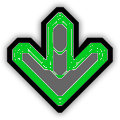
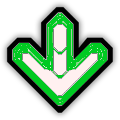
final

Changed region(s): [[0.175, 0.2, 0.825, 0.8]]

diff --git a/js/index.js b/js/index.js
@@ -20,24 +20,27 @@ const arrowLeft = new Image();
 arrowLeft.src = './assets/staticLeft.png';
 const greenLeft = new Image();
 greenLeft.src = './assets/greenLeft.png';
+const purpleLeft = new Image();
+purpleLeft.src = './assets/purpleLeft.png';
 const arrowUp = new Image();
 arrowUp.src = './assets/staticUp.png';
 const greenUp = new Image();
 greenUp.src = './assets/greenUp.png';
+const purpleUp = new Image();
+purpleUp.src = './assets/purpleUp.png';
 const arrowDown = new Image();
 arrowDown.src = './assets/staticDown.png';
 const greenDown = new Image();
 greenDown.src = './assets/greenDown.png';
+const purpleDown = new Image();
+purpleDown.src = './assets/purpleDown.png';
 const arrowRight = new Image();
 arrowRight.src = './assets/staticRight.png';
 const greenRight = new Image();
 greenRight.src = './assets/greenRight.png';
-/*
-const arrowLeftDynamic = new Image()
-arrowLeftDynamic.src = './assets/leftArrowDynamic.png'
-const arrowUpDynamic = new Image();
-arrowUpDynamic.src = "./assets/arrowBlue.gif";
-*/
+const purpleRight = new Image();
+purpleRight.src = './assets/purpleRight.png';
+
 const arrowsArray = [];
 const combosArray = [];
 
@@ -49,21 +52,46 @@ const rightArrowPos = 5.25 * (canvas.width / 8);
 const arrowWidth = 75;
 const arrowHeight = 75;
 const inputPadding = 15;
-const maxArrows = 12;
+const maxArrows = 4;
 
-function handleKeyPress(e) {
+function handleKeyDown(e) {
+    if(["ArrowUp","ArrowDown","ArrowLeft","ArrowRight"].indexOf(e.code) > -1) {
+        e.preventDefault();
+    }
     switch (e.keyCode) {
         case 37:
-            leftArrowIsPressed = !leftArrowIsPressed;
+            decrementScore()
+            leftArrowIsPressed = true;
             break;
         case 38:
-            upArrowIsPressed = !upArrowIsPressed;
+            decrementScore()
+            upArrowIsPressed = true;
             break;
         case 39:
-            rightArrowIsPressed = !rightArrowIsPressed;
+            decrementScore()
+            rightArrowIsPressed = true;
             break;
         case 40:
-            downArrowIsPressed = !downArrowIsPressed;
+            decrementScore()
+            downArrowIsPressed = true;
+            break;
+    }
+}
+
+
+function handleKeyUp(e) {
+    switch (e.keyCode) {
+        case 37:
+            leftArrowIsPressed = false;
+            break;
+        case 38:
+            upArrowIsPressed = false;
+            break;
+        case 39:
+            rightArrowIsPressed = false;
+            break;
+        case 40:
+            downArrowIsPressed = false;
             break;
     }
 }
@@ -74,22 +102,22 @@ class ArrowSprite {
         switch (direction) {
             case 'left':
                 this.x = leftArrowPos;
-                this.img = arrowLeft;
+                this.img = purpleLeft;
                 this.secondaryImg = greenLeft;
                 break;
             case 'up':
                 this.x = upArrowPos;
-                this.img = arrowUp;
+                this.img = purpleUp;
                 this.secondaryImg = greenUp;
                 break;
             case 'down':
                 this.x = downArrowPos;
-                this.img = arrowDown;
+                this.img = purpleDown;
                 this.secondaryImg = greenDown;
                 break;
             case 'right':
                 this.x = rightArrowPos;
-                this.img = arrowRight;
+                this.img = purpleRight;
                 this.secondaryImg = greenRight;
                 break;
         }
@@ -100,7 +128,11 @@ class ArrowSprite {
     }
 
     updatePosition() {
-        this.y += 1.5;
+        if(this.validated){
+            this.y += .8;
+        } else {
+            this.y += 1.5;
+        }
     }
 
     draw() {
@@ -108,28 +140,27 @@ class ArrowSprite {
     }
 }
 
-function createArrow() {
+function createArrowSprite() {
     if(!gameOn){
         return;
     }
     let directions = ['left', 'up', 'down', 'right'];
     let arrowDirection = directions[Math.floor(Math.random() * directions.length)]
     let randomSeed = Math.floor(Math.random() * 2.2)
-    arrowsArray.push(new ArrowSprite(arrowDirection))
-    if(arrowsArray.length > maxArrows){
-        randomSeed *= 4;
+    if(arrowsArray.length < maxArrows){
+        arrowsArray.push(new ArrowSprite(arrowDirection))
     }
     setTimeout(() => {
-        createArrow()
+        createArrowSprite()
     }, randomSeed*1000)       
     
 }  
 
-class ComboSprite {
-    constructor(combo, xPos){
-        this.combo = combo;
+class ScoreSprite {
+    constructor(score, xPos){
+        this.score = score;
         this.x=  xPos + arrowWidth / 2;
-        this.y = canvas.height - arrowHeight;
+        this.y = canvas.height - arrowHeight * 1.5;
     }
 
     updatePosition(){
@@ -139,16 +170,25 @@ class ComboSprite {
     draw(){
         ctx.fillStyle = '#eef577';
         ctx.font = '18px sans-serif';
-        ctx.fillText(`${this.combo}X`, this.x, this.y);
+        ctx.fillText(`${this.score}`, this.x, this.y);
     }   
 }
 
-function createCombo(combo, xPos){
-    combosArray.push(new ComboSprite(combo, xPos));
+function createScoreSprite(score, xPos){
+    combosArray.push(new ScoreSprite(score, xPos));
 }
 
-function validateArrow(arrow) {
-    switch (arrow.direction) {
+function decrementScore(arrow){
+    /*if(arrow){
+        createScoreSprite(-100, arrow.x)
+    }*/
+    if(score > 0){
+        score -= 100;
+    }
+}
+
+function validateArrow(direction) {
+    switch (direction) {
         case 'left':
             return leftArrowIsPressed;
         case 'up':
@@ -159,10 +199,6 @@ function validateArrow(arrow) {
             return rightArrowIsPressed;
     }
 }
-/*
-function updateScore(){
-    document.getElementById('score').innerHTML= score;
-}*/
 
 function animationLoop() {
     // clear rect
@@ -170,37 +206,34 @@ function animationLoop() {
     // draw combo and score 
     ctx.fillStyle = '#eef577';
     ctx.font = '18px sans-serif';
-    ctx.fillText(`Combo: ${scoreMultiplier}X  Score: ${score}`, canvas.width/3.1, 30);
+    ctx.fillText(`Combo: ${scoreMultiplier}X  Score: ${score}`, canvas.width/3.2, 30);
     // draw placeholder arrows
-    ctx.drawImage(arrowLeft, leftArrowPos, canvas.height - arrowHeight, leftArrowIsPressed ? 4 + arrowWidth : arrowWidth, leftArrowIsPressed ? 4 + arrowHeight : arrowHeight)
-    ctx.drawImage(arrowUp, upArrowPos, canvas.height - arrowHeight, upArrowIsPressed ? 4 + arrowWidth : arrowWidth, upArrowIsPressed ? 4 + arrowHeight : arrowHeight)
-    ctx.drawImage(arrowDown, downArrowPos, canvas.height - arrowHeight, downArrowIsPressed ? 4 + arrowWidth : arrowWidth, downArrowIsPressed ? 4 + arrowHeight : arrowHeight)
-    ctx.drawImage(arrowRight, rightArrowPos, canvas.height - arrowHeight, rightArrowIsPressed ? 4 + arrowWidth : arrowWidth, rightArrowIsPressed ? 4 + arrowHeight : arrowHeight)
+    ctx.drawImage(arrowLeft, leftArrowPos, canvas.height - arrowHeight * 1.5, leftArrowIsPressed ? 4 + arrowWidth : arrowWidth, leftArrowIsPressed ? 4 + arrowHeight : arrowHeight)
+    ctx.drawImage(arrowUp, upArrowPos, canvas.height - arrowHeight * 1.5, upArrowIsPressed ? 4 + arrowWidth : arrowWidth, upArrowIsPressed ? 4 + arrowHeight : arrowHeight)
+    ctx.drawImage(arrowDown, downArrowPos, canvas.height - arrowHeight * 1.5, downArrowIsPressed ? 4 + arrowWidth : arrowWidth, downArrowIsPressed ? 4 + arrowHeight : arrowHeight)
+    ctx.drawImage(arrowRight, rightArrowPos, canvas.height - arrowHeight * 1.5, rightArrowIsPressed ? 4 + arrowWidth : arrowWidth, rightArrowIsPressed ? 4 + arrowHeight : arrowHeight)
     // update and draw moving arrows
     arrowsArray.forEach((arrow, i, arr) => {
         arrow.updatePosition();
         arrow.draw();
-        if (arrow.y > canvas.height - arrowHeight - inputPadding && arrow.y < canvas.height - arrowHeight + inputPadding) {
-            if (arrow.validated === false && validateArrow(arrow)) { // start checking 10 pixels before
+        if (arrow.y > canvas.height - (arrowHeight * 1.5) - inputPadding && arrow.y < canvas.height - (arrowHeight * 1.5) + inputPadding) {
+            if (arrow.validated === false && validateArrow(arrow.direction)) { // start checking 10 pixels before
                 arrow.validated = true;
-                score += 100 * scoreMultiplier;
+                score += 100 + 100 * scoreMultiplier;
                 streak +=1;
+                createScoreSprite(100 * scoreMultiplier, arrow.x)
                 if(streak > 10){
-                    createCombo(3, arrow.x)
                     scoreMultiplier = 3;
                 } else if(streak > 5){
-                    createCombo(2, arrow.x)
                     scoreMultiplier = 2;
-                } else{
+                } else {
                     scoreMultiplier = 1;
                 }
             }
         }
         if (arrow.y > canvas.height) { // clear the arrow
             if (arrow.validated === false) {
-                if(score > 0){
-                    score -= 50;
-                }
+                decrementScore(arrow)
                 scoreMultiplier = 1;
                 streak = 0;
             }
@@ -212,7 +245,7 @@ function animationLoop() {
     combosArray.forEach((combo, i, arr) => {
         combo.updatePosition();
         combo.draw();
-        if (combo.y > canvas.height) { // clear the arrow
+        if (combo.y > canvas.height) { // clear the combo
             arr.splice(i, 1);
         }
     })
@@ -223,6 +256,30 @@ function pauseGame() {
     audioElement.pause();
     clearInterval(animationInterval);
     gameOn = false;
+}
+
+function muteGame(){
+
+    const muteButton = document.getElementById("mute-button");
+
+    if(muted){
+        muteButton.innerHTML = `
+        <i class="fa-solid fa-volume-xmark"></i>
+       `;   
+       audioElement.volume = 1;
+       muted = false;
+    } else {
+        muteButton.innerHTML = `
+        <i class="fa-solid fa-volume-high"></i>
+       `;   
+       audioElement.volume = 0;
+        muted = true;
+    }
+
+}
+
+function resetGame(){
+    window.location.reload();
 }
 
 function startGame() {
@@ -243,7 +300,7 @@ function startGame() {
             animationLoop();
         }, 4);
 
-        createArrow();
+        createArrowSprite();
 
     } else {
         startButton.innerHTML = `
@@ -256,6 +313,8 @@ function startGame() {
 
 window.onload = function () {
     document.getElementById("start-button").onclick = startGame;
-    document.addEventListener("keydown", handleKeyPress);
-    document.addEventListener("keyup", handleKeyPress);
+    document.getElementById("mute-button").onclick = muteGame;
+    document.getElementById("reset-button").onclick = resetGame;
+    document.addEventListener("keydown", handleKeyDown);
+    document.addEventListener("keyup", handleKeyUp);
 }

diff --git a/index.html b/index.html
@@ -11,15 +11,18 @@
     </head>
     <body>
         <div id="container">
- 
-            <div class="menu menu-left">
-                <!--<p><Strong>Russian</Strong><br> Night Club<br> Simulator</p>-->
-                <button id="start-button"><i class="fa-solid fa-play"></i></button>
-                <!--<button id="mute"><i class="fa-solid fa-volume-xmark"></i></button>-->
-                <!--<br>
-                Score: <span id="score"></span>-->
+            <div>
+                <div class="menu">
+                    <button id="start-button"><i class="fa-solid fa-play"></i></button>
+                    <br>
+                    <button id="mute-button"><i class="fa-solid fa-volume-xmark"></i></button>
+                    <br>
+                    <button id="reset-button"><i class="fa-solid fa-rotate-right"></i></button>
+                </div>
+                <!--<div class="menu menu2">
+                    <button id="mute-button"><i class="fa-solid fa-volume-xmark"></i></button>
+                </div>-->
             </div>
-
             <canvas id="canvas" width="400" height="450"></canvas>
         </div>
         

diff --git a/styles/style.css b/styles/style.css
@@ -21,11 +21,20 @@ body {
     background: #ca1be3;
     padding: 20px;
     display: flex;
-    color: white;
     flex-direction: column;
     align-items: center;
     border-radius: 14px;
     border: 1px dotted #0f0f0f;
+    margin-bottom: 10px;
+}
+
+.menu2 {
+    background: #c2ff44;
+    
+}
+
+.menu3 {
+    background: #ef2d37;
 }
 
 .menu > p {
@@ -34,33 +43,9 @@ body {
 
 .menu > button {
     background: transparent;
-    color: white;
+    color: black;
     border: 2px dotted rgba(0,0,0,.4);
     border-radius: 50px;
-}
-
-.menu > button:hover {
-    border-color: #000000;
-}
-
-.menu > button.clicked {
-    background: #000000;
-}
-
-#start-button, #mute {
     width: 50px;
     height: 50px;
-}
-
-#mute {
-    margin-top: 4px;
-}
-
-.menu-button-image {
-    width: 25px;
-    height: 25px;
-}
-
-#canvas {
-  /*border: 1px solid #000000;*/
 }
